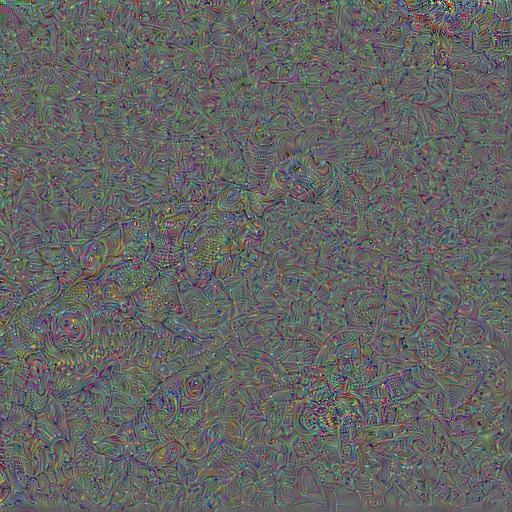
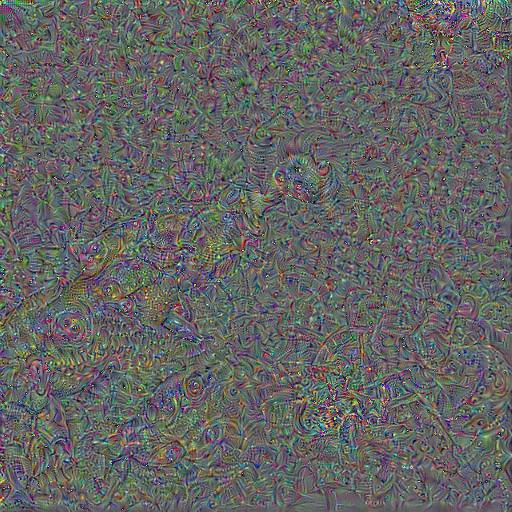
add img

diff --git a/utils.py b/utils.py
@@ -8,11 +8,16 @@ import scipy.ndimage as nd
 from torch.autograd import Variable
 import cv2 as cv
 
+img_idx = 0
+
 
 def showarray(a, fmt='jpeg'):
     a = np.uint8(np.clip(a, 0, 255))
     img = PIL.Image.fromarray(a)
-    img.show()
+    global img_idx
+    img.save('tmp/cloud_{0}.jpg'.format(img_idx))
+    img_idx += 1
+    # img.show()
 
 
 def showtensor(a):
@@ -34,16 +39,17 @@ def make_step(img, model, control=None, distance=objective_L2):
     mean = np.array([0.485, 0.456, 0.406]).reshape([3, 1, 1])
     std = np.array([0.229, 0.224, 0.225]).reshape([3, 1, 1])
 
-    learning_rate = 2e-2
+    learning_rate = 5e-2
     max_jitter = 32
-    num_iterations = 20
+    num_iterations = 50
     show_every = 10
-    end_layer = 2
+    end_layer = 5
     guide_features = control
+    out_channel = 275  # 猎犬
 
     for i in range(num_iterations):
         shift_x, shift_y = np.random.randint(-max_jitter, max_jitter + 1, 2)
-        print(shift_x, shift_y)
+        # print(shift_x, shift_y)
         img = np.roll(np.roll(img, shift_x, -1), shift_y, -2)
         # apply jitter shift
         model.zero_grad()
@@ -52,16 +58,22 @@ def make_step(img, model, control=None, distance=objective_L2):
             img_variable = Variable(img_tensor.cuda(), requires_grad=True)
         else:
             img_variable = Variable(img_tensor, requires_grad=True)
-
         act_value = model.forward(img_variable, end_layer)
-        print(act_value.shape)
+        if end_layer >= 4:
+            act_value = act_value[0]
+            # out_channel = np.argmax(act_value.detach().numpy())
+            # print(out_channel)
+            act_value = act_value[out_channel]
+            print(act_value)
         diff_out = distance(act_value, guide_features)
+        if diff_out < 0:
+            diff_out = -diff_out
         act_value.backward(diff_out)
         ratio = np.abs(img_variable.grad.data.cpu().numpy()).mean()
         learning_rate_use = learning_rate / ratio
         print(learning_rate, ratio, learning_rate_use)
         img_variable.data.add_(img_variable.grad.data * learning_rate_use)
-        print(img_variable.grad.data )
+        # print(img_variable.grad.data )
         img = img_variable.data.cpu().numpy()  # b, c, h, w
         img = np.roll(np.roll(img, -shift_x, -1), -shift_y, -2)
         img[0, :, :, :] = np.clip(img[0, :, :, :], -mean / std, (1 - mean) / std)

diff --git a/dream3.py b/dream3.py
@@ -12,8 +12,12 @@ lr = 2.5
 max_jitter = 32
 out_class = 0
 
-noise = np.random.uniform(size=(1, 3, 512, 512)) + 100.0
-input_tensor = Variable(torch.FloatTensor(noise), requires_grad=True)
+# noise = np.random.uniform(size=(1, 3, 512, 512)) + 100.0 #随机噪声
+noise = Image.open('data/00003.jpg')
+noise = np.asarray(noise)
+input_tensor = Variable(torch.FloatTensor(noise).permute(2, 0, 1).unsqueeze(0), requires_grad=True)
+print(input_tensor.shape)
+
 # print(input_tensor)
 
 
@@ -24,7 +28,7 @@ for param in model.parameters():
     param.requires_grad = False
 # optmizer = torch.optim.SGD([input_tensor], lr=0.01)
 
-for i in range(100):
+for i in range(400):
     # shift_x, shift_y = np.random.randint(-max_jitter, max_jitter + 1, 2)
     # input_tensor.data = np.roll(np.roll(input_tensor.data, shift_x, -1), shift_y, -2)
     model.zero_grad()
@@ -42,5 +46,5 @@ for i in range(100):
     if i % 10 == 0:
         img_tensor = input_tensor.squeeze().permute(1, 2, 0)
         image = Image.fromarray(np.uint8(img_tensor.detach().numpy()))
-        image.show()
-        image.save('data/cloud_{}.jpg'.format(i))
+        # image.show()
+        image.save('tmp/cloud_{}.jpg'.format(i))

diff --git a/models.py b/models.py
@@ -24,7 +24,7 @@ class CustomResNet(models.resnet.ResNet):
         x = self.maxpool(x)
 
         layers = [self.layer1, self.layer2, self.layer3, self.layer4]
-        if end_layer < 4:
+        if end_layer <= 4:
             for i in range(end_layer):
                 x = layers[i](x)
         else:

diff --git a/dream1.py b/dream1.py
@@ -9,7 +9,7 @@ img_transform = transforms.Compose([
     transforms.Normalize([0.485, 0.456, 0.406], [0.229, 0.224, 0.225])
 ])
 
-input_img = Image.open('data/timg.jpg')
+input_img = Image.open('data/cloud.jpg')
 input_tensor = img_transform(input_img).unsqueeze(0)
 input_np = input_tensor.numpy()
 
